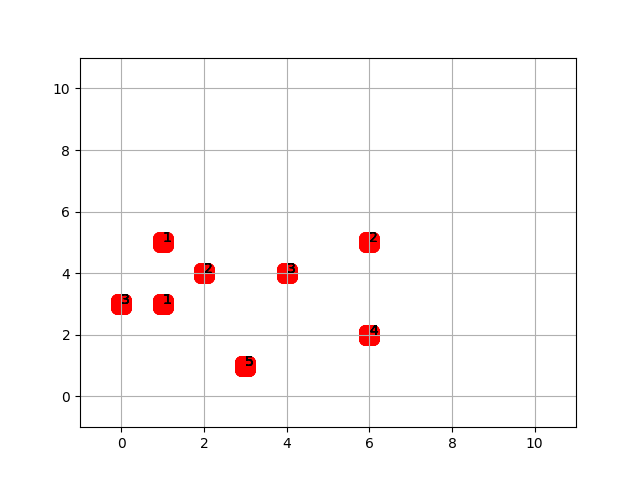
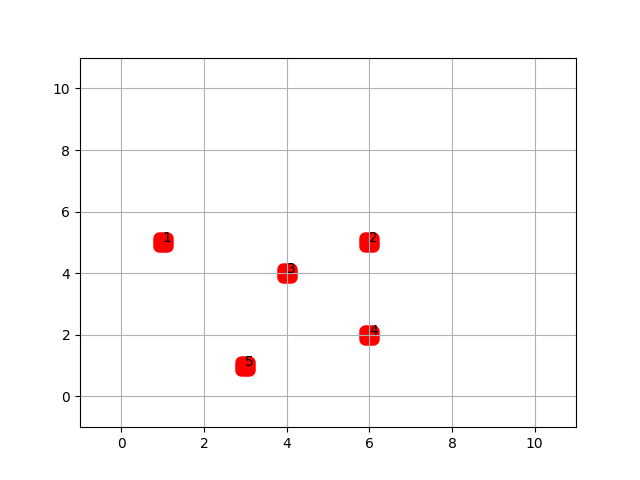
3d plotting

diff --git a/main.html b/main.html
@@ -1,0 +1,85 @@
+
+
+
+
+<!DOCTYPE html>
+<html lang="en">
+  
+  <head>
+    
+      <meta charset="utf-8">
+      <title>Bokeh Plot</title>
+      
+      
+        
+          
+        
+        
+          
+        <script type="text/javascript" src="https://cdn.bokeh.org/bokeh/release/bokeh-2.2.3.min.js" integrity="sha384-T2yuo9Oe71Cz/I4X9Ac5+gpEa5a8PpJCDlqKYO0CfAuEszu1JrXLl8YugMqYe3sM" crossorigin="anonymous"></script>
+        <script type="text/javascript">
+            Bokeh.set_log_level("info");
+        </script>
+        
+      
+      
+    
+  </head>
+  
+  
+  <body>
+    
+      
+        
+          
+          
+            
+              <div class="bk-root" id="116e412c-f251-41a7-8c8a-9226ab963cfb" data-root-id="1001"></div>
+            
+          
+        
+      
+      
+        <script type="application/json" id="2793">
+          {"ed358ce6-80c8-46cd-9e7c-8acc8b3739ef":{"roots":{"references":[{"attributes":{},"id":"1133","type":"UnionRenderers"},{"attributes":{},"id":"1134","type":"Selection"},{"attributes":{},"id":"2309","type":"UnionRenderers"},{"attributes":{"source":{"id":"2282"}},"id":"2286","type":"CDSView"},{"attributes":{"source":{"id":"1664"}},"id":"1668","type":"CDSView"},{"attributes":{},"id":"1685","type":"UnionRenderers"},{"attributes":{"data":{"x":[3,6,0,1,2,4,1,6],"y":[1,2,3,3,4,4,5,5]},"selected":{"id":"1046"},"selection_policy":{"id":"1045"}},"id":"1034","type":"ColumnDataSource"},{"attributes":{},"id":"1041","type":"BasicTickFormatter"},{"attributes":{},"id":"1241","type":"UnionRenderers"},{"attributes":{},"id":"1004","type":"DataRange1d"},{"attributes":{"text":"3D visualisation"},"id":"1002","type":"Title"},{"attributes":{"axis_label":"X","formatter":{"id":"1043"},"ticker":{"id":"1013"}},"id":"1012","type":"LinearAxis"},{"attributes":{},"id":"2310","type":"Selection"},{"attributes":{"source":{"id":"1226"}},"id":"1230","type":"CDSView"},{"attributes":{},"id":"1010","type":"LinearScale"},{"attributes":{},"id":"1006","type":"DataRange1d"},{"attributes":{"data_source":{"id":"1498"},"glyph":{"id":"1499"},"hover_glyph":null,"muted_glyph":null,"nonselection_glyph":{"id":"1500"},"selection_glyph":null,"view":{"id":"1502"}},"id":"1501","type":"GlyphRenderer"},{"attributes":{},"id":"1013","type":"BasicTicker"},{"attributes":{},"id":"1043","type":"BasicTickFormatter"},{"attributes":{},"id":"1008","type":"LinearScale"},{"attributes":{"axis":{"id":"1012"},"ticker":null},"id":"1015","type":"Grid"},{"attributes":{},"id":"1686","type":"Selection"},{"attributes":{},"id":"1021","type":"WheelZoomTool"},{"attributes":{"fill_alpha":{"value":0.6},"fill_color":{"value":"red"},"line_alpha":{"value":0.6},"line_color":{"value":"red"},"size":{"units":"screen","value":12},"x":{"field":"x"},"y":{"field":"y"}},"id":"1035","type":"Square"},{"attributes":{"axis_label":"Y","formatter":{"id":"1041"},"ticker":{"id":"1017"}},"id":"1016","type":"LinearAxis"},{"attributes":{"data_source":{"id":"2528"},"glyph":{"id":"2529"},"hover_glyph":null,"muted_glyph":null,"nonselection_glyph":{"id":"2530"},"selection_glyph":null,"view":{"id":"2532"}},"id":"2531","type":"GlyphRenderer"},{"attributes":{"axis":{"id":"1016"},"dimension":1,"ticker":null},"id":"1019","type":"Grid"},{"attributes":{},"id":"1242","type":"Selection"},{"attributes":{},"id":"1017","type":"BasicTicker"},{"attributes":{},"id":"1025","type":"HelpTool"},{"attributes":{},"id":"2557","type":"UnionRenderers"},{"attributes":{"data_source":{"id":"1850"},"glyph":{"id":"1851"},"hover_glyph":null,"muted_glyph":null,"nonselection_glyph":{"id":"1852"},"selection_glyph":null,"view":{"id":"1854"}},"id":"1853","type":"GlyphRenderer"},{"attributes":{},"id":"1020","type":"PanTool"},{"attributes":{"overlay":{"id":"1026"}},"id":"1022","type":"BoxZoomTool"},{"attributes":{"fill_alpha":{"value":0.6},"fill_color":{"value":"red"},"line_alpha":{"value":0.6},"line_color":{"value":"red"},"size":{"units":"screen","value":12},"x":{"field":"x"},"y":{"field":"y"}},"id":"1227","type":"Square"},{"attributes":{},"id":"1023","type":"SaveTool"},{"attributes":{"data":{"x":[3,6,0,1,2,4,1,6],"y":[1,2,3,3,4,4,5,5]},"selected":{"id":"2082"},"selection_policy":{"id":"2081"}},"id":"2056","type":"ColumnDataSource"},{"attributes":{"source":{"id":"2528"}},"id":"2532","type":"CDSView"},{"attributes":{},"id":"1024","type":"ResetTool"},{"attributes":{},"id":"1873","type":"UnionRenderers"},{"attributes":{"fill_alpha":{"value":0.6},"fill_color":{"value":"red"},"line_alpha":{"value":0.6},"line_color":{"value":"red"},"size":{"units":"screen","value":12},"x":{"field":"x"},"y":{"field":"y"}},"id":"1665","type":"Square"},{"attributes":{"fill_alpha":{"value":0.1},"fill_color":{"value":"red"},"line_alpha":{"value":0.1},"line_color":{"value":"red"},"size":{"units":"screen","value":12},"x":{"field":"x"},"y":{"field":"y"}},"id":"2530","type":"Square"},{"attributes":{"data_source":{"id":"2056"},"glyph":{"id":"2057"},"hover_glyph":null,"muted_glyph":null,"nonselection_glyph":{"id":"2058"},"selection_glyph":null,"view":{"id":"2060"}},"id":"2059","type":"GlyphRenderer"},{"attributes":{"data_source":{"id":"1352"},"glyph":{"id":"1353"},"hover_glyph":null,"muted_glyph":null,"nonselection_glyph":{"id":"1354"},"selection_glyph":null,"view":{"id":"1356"}},"id":"1355","type":"GlyphRenderer"},{"attributes":{},"id":"1045","type":"UnionRenderers"},{"attributes":{"source":{"id":"1850"}},"id":"1854","type":"CDSView"},{"attributes":{"data_source":{"id":"1120"},"glyph":{"id":"1121"},"hover_glyph":null,"muted_glyph":null,"nonselection_glyph":{"id":"1122"},"selection_glyph":null,"view":{"id":"1124"}},"id":"1123","type":"GlyphRenderer"},{"attributes":{"data":{"x":[3,6,0,1,2,4,1,6],"y":[1,2,3,3,4,4,5,5]},"selected":{"id":"2558"},"selection_policy":{"id":"2557"}},"id":"2528","type":"ColumnDataSource"},{"attributes":{},"id":"2558","type":"Selection"},{"attributes":{},"id":"1046","type":"Selection"},{"attributes":{"fill_alpha":{"value":0.6},"fill_color":{"value":"red"},"line_alpha":{"value":0.6},"line_color":{"value":"red"},"size":{"units":"screen","value":12},"x":{"field":"x"},"y":{"field":"y"}},"id":"2283","type":"Square"},{"attributes":{"fill_alpha":{"value":0.6},"fill_color":{"value":"red"},"line_alpha":{"value":0.6},"line_color":{"value":"red"},"size":{"units":"screen","value":12},"x":{"field":"x"},"y":{"field":"y"}},"id":"1121","type":"Square"},{"attributes":{},"id":"1369","type":"UnionRenderers"},{"attributes":{"fill_alpha":{"value":0.1},"fill_color":{"value":"red"},"line_alpha":{"value":0.1},"line_color":{"value":"red"},"size":{"units":"screen","value":12},"x":{"field":"x"},"y":{"field":"y"}},"id":"1852","type":"Square"},{"attributes":{"data":{"x":[3,6,0,1,2,4,1,6],"y":[1,2,3,3,4,4,5,5]},"selected":{"id":"1242"},"selection_policy":{"id":"1241"}},"id":"1226","type":"ColumnDataSource"},{"attributes":{},"id":"1370","type":"Selection"},{"attributes":{"data_source":{"id":"1034"},"glyph":{"id":"1035"},"hover_glyph":null,"muted_glyph":null,"nonselection_glyph":{"id":"1036"},"selection_glyph":null,"view":{"id":"1038"}},"id":"1037","type":"GlyphRenderer"},{"attributes":{"fill_alpha":{"value":0.1},"fill_color":{"value":"red"},"line_alpha":{"value":0.1},"line_color":{"value":"red"},"size":{"units":"screen","value":12},"x":{"field":"x"},"y":{"field":"y"}},"id":"1036","type":"Square"},{"attributes":{"source":{"id":"1034"}},"id":"1038","type":"CDSView"},{"attributes":{},"id":"1874","type":"Selection"},{"attributes":{"data":{"x":[3,6,0,1,2,4,1,6],"y":[1,2,3,3,4,4,5,5]},"selected":{"id":"1874"},"selection_policy":{"id":"1873"}},"id":"1850","type":"ColumnDataSource"},{"attributes":{"fill_alpha":{"value":0.1},"fill_color":{"value":"red"},"line_alpha":{"value":0.1},"line_color":{"value":"red"},"size":{"units":"screen","value":12},"x":{"field":"x"},"y":{"field":"y"}},"id":"1354","type":"Square"},{"attributes":{"source":{"id":"1120"}},"id":"1124","type":"CDSView"},{"attributes":{"bottom_units":"screen","fill_alpha":0.5,"fill_color":"lightgrey","left_units":"screen","level":"overlay","line_alpha":1.0,"line_color":"black","line_dash":[4,4],"line_width":2,"right_units":"screen","top_units":"screen"},"id":"1026","type":"BoxAnnotation"},{"attributes":{"data":{"x":[3,6,0,1,2,4,1,6],"y":[1,2,3,3,4,4,5,5]},"selected":{"id":"1518"},"selection_policy":{"id":"1517"}},"id":"1498","type":"ColumnDataSource"},{"attributes":{"fill_alpha":{"value":0.1},"fill_color":{"value":"red"},"line_alpha":{"value":0.1},"line_color":{"value":"red"},"size":{"units":"screen","value":12},"x":{"field":"x"},"y":{"field":"y"}},"id":"1122","type":"Square"},{"attributes":{"source":{"id":"1352"}},"id":"1356","type":"CDSView"},{"attributes":{"data_source":{"id":"1226"},"glyph":{"id":"1227"},"hover_glyph":null,"muted_glyph":null,"nonselection_glyph":{"id":"1228"},"selection_glyph":null,"view":{"id":"1230"}},"id":"1229","type":"GlyphRenderer"},{"attributes":{"fill_alpha":{"value":0.6},"fill_color":{"value":"red"},"line_alpha":{"value":0.6},"line_color":{"value":"red"},"size":{"units":"screen","value":12},"x":{"field":"x"},"y":{"field":"y"}},"id":"2057","type":"Square"},{"attributes":{"fill_alpha":{"value":0.1},"fill_color":{"value":"red"},"line_alpha":{"value":0.1},"line_color":{"value":"red"},"size":{"units":"screen","value":12},"x":{"field":"x"},"y":{"field":"y"}},"id":"2058","type":"Square"},{"attributes":{"data":{"x":[3,6,0,1,2,4,1,6],"y":[1,2,3,3,4,4,5,5]},"selected":{"id":"1370"},"selection_policy":{"id":"1369"}},"id":"1352","type":"ColumnDataSource"},{"attributes":{"data_source":{"id":"2282"},"glyph":{"id":"2283"},"hover_glyph":null,"muted_glyph":null,"nonselection_glyph":{"id":"2284"},"selection_glyph":null,"view":{"id":"2286"}},"id":"2285","type":"GlyphRenderer"},{"attributes":{},"id":"2081","type":"UnionRenderers"},{"attributes":{"fill_alpha":{"value":0.6},"fill_color":{"value":"red"},"line_alpha":{"value":0.6},"line_color":{"value":"red"},"size":{"units":"screen","value":12},"x":{"field":"x"},"y":{"field":"y"}},"id":"2529","type":"Square"},{"attributes":{},"id":"2082","type":"Selection"},{"attributes":{"fill_alpha":{"value":0.6},"fill_color":{"value":"red"},"line_alpha":{"value":0.6},"line_color":{"value":"red"},"size":{"units":"screen","value":12},"x":{"field":"x"},"y":{"field":"y"}},"id":"1499","type":"Square"},{"attributes":{"fill_alpha":{"value":0.1},"fill_color":{"value":"red"},"line_alpha":{"value":0.1},"line_color":{"value":"red"},"size":{"units":"screen","value":12},"x":{"field":"x"},"y":{"field":"y"}},"id":"1500","type":"Square"},{"attributes":{"data_source":{"id":"1664"},"glyph":{"id":"1665"},"hover_glyph":null,"muted_glyph":null,"nonselection_glyph":{"id":"1666"},"selection_glyph":null,"view":{"id":"1668"}},"id":"1667","type":"GlyphRenderer"},{"attributes":{"fill_alpha":{"value":0.1},"fill_color":{"value":"red"},"line_alpha":{"value":0.1},"line_color":{"value":"red"},"size":{"units":"screen","value":12},"x":{"field":"x"},"y":{"field":"y"}},"id":"2284","type":"Square"},{"attributes":{},"id":"1517","type":"UnionRenderers"},{"attributes":{"fill_alpha":{"value":0.6},"fill_color":{"value":"red"},"line_alpha":{"value":0.6},"line_color":{"value":"red"},"size":{"units":"screen","value":12},"x":{"field":"x"},"y":{"field":"y"}},"id":"1851","type":"Square"},{"attributes":{"data":{"x":[3,6,0,1,2,4,1,6],"y":[1,2,3,3,4,4,5,5]},"selected":{"id":"2310"},"selection_policy":{"id":"2309"}},"id":"2282","type":"ColumnDataSource"},{"attributes":{"source":{"id":"1498"}},"id":"1502","type":"CDSView"},{"attributes":{"source":{"id":"2056"}},"id":"2060","type":"CDSView"},{"attributes":{"data":{"x":[3,6,0,1,2,4,1,6],"y":[1,2,3,3,4,4,5,5]},"selected":{"id":"1686"},"selection_policy":{"id":"1685"}},"id":"1664","type":"ColumnDataSource"},{"attributes":{"active_drag":"auto","active_inspect":"auto","active_multi":null,"active_scroll":"auto","active_tap":"auto","tools":[{"id":"1020"},{"id":"1021"},{"id":"1022"},{"id":"1023"},{"id":"1024"},{"id":"1025"}]},"id":"1027","type":"Toolbar"},{"attributes":{"below":[{"id":"1012"}],"center":[{"id":"1015"},{"id":"1019"}],"left":[{"id":"1016"}],"plot_height":10,"plot_width":10,"renderers":[{"id":"1037"},{"id":"1123"},{"id":"1229"},{"id":"1355"},{"id":"1501"},{"id":"1667"},{"id":"1853"},{"id":"2059"},{"id":"2285"},{"id":"2531"}],"title":{"id":"1002"},"toolbar":{"id":"1027"},"x_range":{"id":"1004"},"x_scale":{"id":"1008"},"y_range":{"id":"1006"},"y_scale":{"id":"1010"}},"id":"1001","subtype":"Figure","type":"Plot"},{"attributes":{"fill_alpha":{"value":0.1},"fill_color":{"value":"red"},"line_alpha":{"value":0.1},"line_color":{"value":"red"},"size":{"units":"screen","value":12},"x":{"field":"x"},"y":{"field":"y"}},"id":"1666","type":"Square"},{"attributes":{"fill_alpha":{"value":0.1},"fill_color":{"value":"red"},"line_alpha":{"value":0.1},"line_color":{"value":"red"},"size":{"units":"screen","value":12},"x":{"field":"x"},"y":{"field":"y"}},"id":"1228","type":"Square"},{"attributes":{"data":{"x":[3,6,0,1,2,4,1,6],"y":[1,2,3,3,4,4,5,5]},"selected":{"id":"1134"},"selection_policy":{"id":"1133"}},"id":"1120","type":"ColumnDataSource"},{"attributes":{"fill_alpha":{"value":0.6},"fill_color":{"value":"red"},"line_alpha":{"value":0.6},"line_color":{"value":"red"},"size":{"units":"screen","value":12},"x":{"field":"x"},"y":{"field":"y"}},"id":"1353","type":"Square"},{"attributes":{},"id":"1518","type":"Selection"}],"root_ids":["1001"]},"title":"Bokeh Application","version":"2.2.3"}}
+        </script>
+        <script type="text/javascript">
+          (function() {
+            var fn = function() {
+              Bokeh.safely(function() {
+                (function(root) {
+                  function embed_document(root) {
+                    
+                  var docs_json = document.getElementById('2793').textContent;
+                  var render_items = [{"docid":"ed358ce6-80c8-46cd-9e7c-8acc8b3739ef","root_ids":["1001"],"roots":{"1001":"116e412c-f251-41a7-8c8a-9226ab963cfb"}}];
+                  root.Bokeh.embed.embed_items(docs_json, render_items);
+                
+                  }
+                  if (root.Bokeh !== undefined) {
+                    embed_document(root);
+                  } else {
+                    var attempts = 0;
+                    var timer = setInterval(function(root) {
+                      if (root.Bokeh !== undefined) {
+                        clearInterval(timer);
+                        embed_document(root);
+                      } else {
+                        attempts++;
+                        if (attempts > 100) {
+                          clearInterval(timer);
+                          console.log("Bokeh: ERROR: Unable to run BokehJS code because BokehJS library is missing");
+                        }
+                      }
+                    }, 10, root)
+                  }
+                })(window);
+              });
+            };
+            if (document.readyState != "loading") fn();
+            else document.addEventListener("DOMContentLoaded", fn);
+          })();
+        </script>
+    
+  </body>
+  
+</html>

diff --git a/main.py b/main.py
@@ -6,11 +6,6 @@ from code.algorithms import algorithm1
 if __name__ == "__main__":
     chip = Chip(10,10)
     chip.initializeGates(0)
-    chip.initializeNetList(0,1)
-    chip.getGridPoint(1,3,0).gate_id = 1
-    chip.getGridPoint(2,4,0).gate_id = 2
-    chip.getGridPoint(0,3,0).gate_id = 3
+    # chip.initializeNetList(0,1)
     visualise(chip, 0)
-    print(chip.netlist)
-    # tim.visualise(chip, 0)
-    algorithm1.StartersAlgoritme(chip)
+    # algorithm1.StartersAlgoritme(chip)
